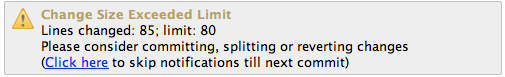
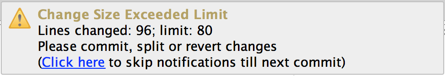
updated readme and screenshots

Changed region(s): [[0.0, 0.0, 1.0, 1.0], [0.0584, 0.7105, 0.7888, 0.9211], [0.0584, 0.5263, 0.818, 0.7105]]

diff --git a/README.md b/README.md
@@ -1,33 +1,29 @@
-## Limited WIP IntelliJ plugin
+### Limited WIP
+This is a plugin for IntelliJ IDEs to limit your work-in-progress (WIP).
+It has two main features:
+ - show notifications when current changelist size exceeds limit
+ - automatically revert current changelist after a timeout
 
-This is a plugin for IntelliJ IDEs to limit the amount of changes you make at a time. It has two main features:
- - notification when current change list size exceeds limit
- - reverting current change list after a timeout (ctrl+shift+A to start/stop)
-
-Here are some screenshots of plugin preferences/toolbar/notifications:
+Screenshots of preferences/toolbar/notifications:
 <img src="https://github.com/dkandalov/limited-wip/blob/master/settings.png?raw=true" align="center"/>
-<br/>
+<br/><br/>
 <img src="https://github.com/dkandalov/limited-wip/blob/master/toolbar.png?raw=true" align="center"/>
 <br/><br/>
 <img src="https://github.com/dkandalov/limited-wip/blob/master/change-size-exceeded.png?raw=true" align="center"/>
 <br/><br/>
-<img src="https://github.com/dkandalov/limited-wip/blob/master/commit-was-cancelled.png?raw=true" align="center"/>
-<br/><br/>
 
 
-## Why?
+### Why?
 
-This plugin is intended as a tool to limit your work-in-progress (and prevent yourself from cheating).
-It's based on the following assumptions:
- - small focused changes are better than changes which go on until "everything is done"
- - people are good at self-deception and not following rules
+ - make smaller cohesive commits
+ - stay focused with time or change size constraint
 
 
-## How to use it?
+### How to use it?
 
-There are probably many ways to make use of limited WIP, here are some ideas.
+There are probably many ways to use limited WIP, here are some ideas.
 
-Smaller commits:
+Small commits:
  - enable notification on change list size exceeding limit
  - make changes
  - if you get change size notification, commit or split you changes into several commits
